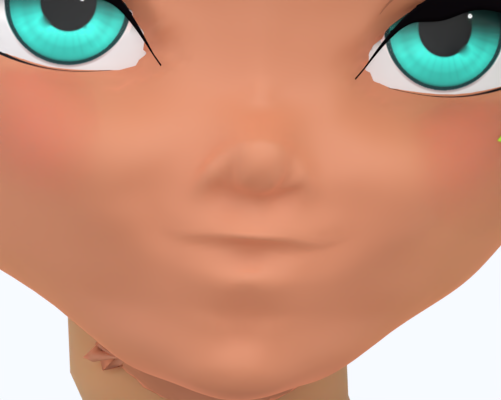
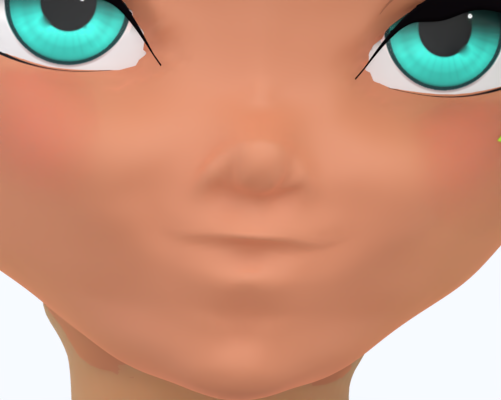
WIP: params J12 (jaw line on the mandible, dive by shrinkwrap); drop unused cove/floor_fillet/neck_skin

diff --git a/tools/inkwave-modeler/scripts/inkwave_face_volume.py b/tools/inkwave-modeler/scripts/inkwave_face_volume.py
@@ -1147,9 +1147,8 @@ def keep_material(mat):
 
 
 def restore_materials():
-    for name in (EAR_MATERIAL, NECK_MATERIAL):
-        if bpy.data.materials.get(name) is not None and not bpy.data.materials[name].users:
-            bpy.data.materials.remove(bpy.data.materials[name])
+    if bpy.data.materials.get(EAR_MATERIAL) is not None and not bpy.data.materials[EAR_MATERIAL].users:
+        bpy.data.materials.remove(bpy.data.materials[EAR_MATERIAL])
     for name in DECAL_MATERIALS.values():
         mat = bpy.data.materials.get(name)
         if mat is None or SUFFIX not in mat:
@@ -1616,67 +1615,6 @@ def set_skin(cfg):
     if paint is not None:                  # its default value is what the reference paint reads as the skin tone
         next(n for n in paint.node_tree.nodes if n.type == 'BSDF_PRINCIPLED').inputs['Base Color'].default_value = \
             list(cfg['base_colour']) + [1.0]
-
-
-NECK_MATERIAL = 'skin_neck'
-
-
-def neck_skin(face, cfg):
-    """The face lies on the neck under the jaw and ends there; the face (its paint texture, face shading) and the
-    neck (the body skin) shade differently, so the border read as a line from under the ear to the neck front (the
-    reference has none).  The neck above the collar (BODY_torso, head-frame y > y_min, |x| < x_max) gets a copy of
-    the body skin with the face skin's values: the colour of the face texture where the face lies on the neck
-    (median, cfg['sample'] box) and the face material's surface values for that texture alpha.  The border to the
-    body skin is inside the collar."""
-    me = face.data
-    loc = M.to_local(er.world(face)) * 1000
-    fm = bpy.data.materials[er.FACE_PAINT_MATERIAL]
-    tex = next(n for n in fm.node_tree.nodes if n.type == 'TEX_IMAGE' and n.outputs['Color'].links)
-    img = tex.image
-    W, H = img.size
-    px = np.empty(W * H * 4, np.float32)
-    img.pixels.foreach_get(px)
-    px = px.reshape(H, W, 4)
-    uv = np.empty(len(me.loops) * 2)
-    me.uv_layers.active.data.foreach_get('uv', uv)
-    uv = uv.reshape(-1, 2)
-    lv = np.empty(len(me.loops), int)
-    me.loops.foreach_get('vertex_index', lv)
-    (y0, y1), (z0, z1) = cfg['sample']['y'], cfg['sample']['z']
-    sel = (loc[lv, 1] > y0) & (loc[lv, 1] < y1) & (loc[lv, 2] > z0) & (loc[lv, 2] < z1)
-    c = px[(np.clip(uv[sel, 1], 0, 1) * (H - 1)).astype(int), (np.clip(uv[sel, 0], 0, 1) * (W - 1)).astype(int)]
-    rgb, alpha = np.median(c[:, :3], 0), float(np.median(c[:, 3]))
-    if img.colorspace_settings.name == 'sRGB' and not img.is_float:
-        rgb = np.where(rgb <= 0.04045, rgb / 12.92, ((rgb + 0.055) / 1.055) ** 2.4)
-    inv = 1 - alpha
-    mat = bpy.data.materials[cfg.get('from', SKIN_MATERIAL)].copy()
-    mat.name = NECK_MATERIAL
-    b = next(n for n in mat.node_tree.nodes if n.type == 'BSDF_PRINCIPLED')
-    fb = next(n for n in fm.node_tree.nodes if n.type == 'BSDF_PRINCIPLED')
-    b.inputs['Base Color'].default_value = list(rgb) + [1.0]
-    for k in ('Sheen Weight', 'Subsurface Weight', 'Coat Weight', 'Specular IOR Level', 'Roughness'):
-        mr = fm.node_tree.nodes.get('ink_' + k)
-        if mr is not None:
-            lo, hi = mr.inputs['To Min'].default_value, mr.inputs['To Max'].default_value
-            b.inputs[k].default_value = lo + (hi - lo) * inv
-        else:
-            b.inputs[k].default_value = fb.inputs[k].default_value
-    for k in ('Subsurface Radius', 'Subsurface Scale', 'Sheen Tint', 'Sheen Roughness', 'Coat Roughness'):
-        b.inputs[k].default_value = fb.inputs[k].default_value
-    neck = bpy.data.objects[NECK]
-    nme = neck.data
-    nl = M.to_local(er.world(neck)) * 1000
-    nme.materials.append(mat)
-    slot = len(nme.materials) - 1
-    vy = nl[:, 1]
-    vx = np.abs(nl[:, 0])
-    count = 0
-    for pl in nme.polygons:
-        vs = list(pl.vertices)
-        if vy[vs].min() > cfg['y_min'] and vx[vs].max() < cfg['x_max']:
-            pl.material_index = slot
-            count += 1
-    print('FACE_VOLUME neck skin: polygons', count, 'colour (linear)', np.round(rgb, 4), 'texture alpha', round(alpha, 3))
 
 
 def restore_skin():
@@ -2253,34 +2191,6 @@ def main():
                     amounts = amounts + ln['mm'] * wl
                 if step.get('flare'):
                     amounts = amounts + fl['mm'] * wf
-                if step.get('cove'):
-                    # a rounded inside corner under the jaw (the reference's jaw runs into the neck in one curve):
-                    # each neck point h mm under the face (ray straight up in the head frame, hitting the face's
-                    # underside from below) goes out along its normal by R - sqrt(R^2 - (R - h)^2), a quarter
-                    # circle of radius R: R at the face, 0 and tangent to the neck at h = R
-                    R = step['cove']['mm']
-                    bvh = BVHTree.FromPolygons([tuple(v) for v in er.world(face)], [tuple(pl.vertices) for pl in face.data.polygons])
-                    up = M.to_world(np.array([[0, 1.0, 0]]))[0] - M.to_world(np.zeros((1, 3)))[0]
-                    up = Vector(up / np.linalg.norm(up))
-                    Wn = er.world(neck)
-                    h = np.full(len(Wn), np.inf)
-                    for i in np.nonzero(wy > 0)[0]:
-                        loc_h, nrm, _, dist = bvh.ray_cast(Vector(Wn[i]), up, 0.05)
-                        if loc_h is not None and nrm.dot(up) < 0:
-                            h[i] = dist * 1000
-                    t = np.clip(1 - h / R, 0, 1)
-                    cove = R - np.sqrt(np.maximum(R * R - (R * t) ** 2, 0))
-                    cove[t <= 0] = 0.0
-                    cove *= step['cove'].get('scale', 1.0)
-                    if step['cove'].get('weight_smooth'):
-                        # the height under the face jumps from point to point (the rays meet the face's own
-                        # bumps): Blender's vertex-group smoothing evens the amounts out before the move
-                        peak = float(cove.max())
-                        if peak > 0:
-                            cw = smooth_weights(neck, cove / peak, step['cove']['weight_smooth'])
-                            cove = cw * peak * (wy > 0)
-                    amounts = amounts + cove * (wy > 0)
-                    print('FACE_VOLUME', step['name'], 'cove vertices', int((cove > 0.01).sum()), 'max mm', round(float(cove.max()), 2))
                 for sign in (1, -1):
                     part = np.maximum(sign * amounts, 0)
                     if part.max() > 0:
@@ -2298,39 +2208,6 @@ def main():
                         me.vertices[j].co = co
                 me.update()
                 print('FACE_VOLUME', step['name'], 'neck vertices', int((wn > 0.001).sum()), 'mm', step.get('mm_side', step.get('mm')), 'lean', step.get('lean'))
-                continue
-            elif step['kind'] == 'floor_fillet':
-                # the floor under the jaw met the neck at a right angle (front and side views: a corner where the
-                # reference runs in one curve).  Floor points d mm from the neck go down by R - sqrt(R^2 - (R-d)^2)
-                # (a quarter circle of radius R: R at the neck, 0 and level with the floor at d = R), so the floor
-                # bends down into the neck.  The amount depends on the distance to the neck only, so a point never
-                # goes through it.  Blender's Warp moves them; the weights are evened out by vertex-group smoothing
-                R = step['mm']
-                neck = bpy.data.objects[NECK]
-                Wn = er.world(neck)
-                bvh = BVHTree.FromPolygons([tuple(v) for v in Wn], [tuple(pl.vertices) for pl in neck.data.polygons])
-                Wf = er.world(face)
-                d = np.full(len(Wf), np.inf)
-                cand = np.nonzero((loc[:, 1] < step['y_max']) & (NORMALS[:, 1] < step['normal_y']) & (loc[:, 2] > step['z'][0]))[0]
-                for i in cand:
-                    q, nrm, _, dist = bvh.find_nearest(Vector(Wf[i]))
-                    if q is not None:
-                        d[i] = dist * 1000 if nrm.dot(Vector(Wf[i]) - q) > 0 else 0.0
-                t = np.clip(1 - d / R, 0, 1)
-                drop = R - np.sqrt(np.maximum(R * R - (R * t) ** 2, 0))
-                drop[t <= 0] = 0.0
-                z0, z1 = step['z']
-                tz = np.clip((loc[:, 2] - z0) / (z1 - z0), 0, 1)
-                drop *= tz * tz * (3 - 2 * tz)
-                peak = float(drop.max())
-                if peak > 0:
-                    w = drop / peak
-                    if step.get('weight_smooth'):
-                        w = smooth_weights(face, w, step['weight_smooth'])
-                        w = np.clip(w / max(w.max(), 1e-9), 0, 1)
-                    warp(face, w, [0, -peak, 0], loc)
-                gap = join_seam(face, pairs)
-                print('FACE_VOLUME', step['name'], 'vertices', int((drop > 0.01).sum()), 'max mm', round(peak, 2), 'seam gap closed mm', round(float(gap), 3))
                 continue
             elif step['kind'] == 'neck_normals':
                 # the face laid on the neck (jaw_tuck) ends on it: its own shading differs from the neck's, so the
@@ -2358,8 +2235,15 @@ def main():
                     # normals (Blender's Displace), so it goes in at a small angle along a curve parallel to the
                     # jaw line, and the neck shows below without a step
                     wd = jaw_tuck_weights(loc, dict(step, z_front=step['dive'].get('z_front', step['z_front'])), step['dive'])
-                    er.apply_weighted_modifier(face, wd, 'DISPLACE', direction='NORMAL',
-                                               strength=-step['dive']['mm'] / 1000, mid_level=0.0)
+                    if step['dive'].get('method') == 'shrinkwrap':
+                        # along the neck's normal (Shrinkwrap Above Surface, negative offset): a crumpled face
+                        # triangle with a wrong normal would otherwise be pushed out of the neck (a flake)
+                        er.apply_weighted_modifier(face, wd, 'SHRINKWRAP', target=bpy.data.objects[NECK],
+                                                   wrap_method='NEAREST_SURFACEPOINT', wrap_mode='ABOVE_SURFACE',
+                                                   offset=-step['dive']['mm'] / 1000)
+                    else:
+                        er.apply_weighted_modifier(face, wd, 'DISPLACE', direction='NORMAL',
+                                                   strength=-step['dive']['mm'] / 1000, mid_level=0.0)
                     print('FACE_VOLUME', step['name'], 'dive vertices', int((wd > 0.001).sum()), 'mm', step['dive']['mm'])
                 gap = join_seam(face, pairs)
                 move = np.linalg.norm(er.world(face) - M.to_world(loc / 1000), axis=1) * 1000
@@ -2445,8 +2329,6 @@ def main():
             rebuild_ears(p['ear_rebuild'])
         if p.get('cheek_triangles'):
             place_cheek_triangles(face, p['cheek_triangles'])
-        if p.get('neck_skin') and not args.no_paint:
-            neck_skin(face, p['neck_skin'])
         seam_normals(face, pairs)
     if args.save:
         bpy.ops.wm.save_as_mainfile(filepath=args.save, compress=True)

diff --git a/tools/inkwave-modeler/docs/face-volume/wip/HANDOFF.md b/tools/inkwave-modeler/docs/face-volume/wip/HANDOFF.md
@@ -129,3 +129,5 @@
   - 見える境目は jaw_tuck の線ではなく、線から約 15 mm 下・後ろ（depth 20 の重みのため）。
   - 試し: J1（参照のふちを 10 mm 内へずらした線、depth 20）、J2（6 mm、depth 12）、J3（ずらさない、depth 20）。
 - J3（線を参照のふちに置く、上は y -58 の横線、z_ramus [10,30]）はきれい。z_ramus [-10,0]（J4〜J6）は首にかけら。J8 = 線を 5 mm 内へ（上の横線は -58 のまま）、z_ramus [10,30]: 顎の後ろのたてのふちと角が参照の線（`jawborder.py`）にほぼ合う。首の下に小さなかけら → dive の試し J9（len 14）、J10（mm 12）、J11（from 14）。p_J8.json を wip に置いた。
+- J9〜J11: かけら 1 つが残る（首の後ろ寄り、顔の面のくしゃっとした三角が法線の向きで外へ出る）。`jaw_tuck.dive.method` "shrinkwrap"（Shrinkwrap Above Surface、offset -mm = 首の法線で沈める）で消えた（J12 = J9 + これ）。J12 を params に入れた。使わないコード（cove、floor_fillet、neck_skin）は消した。正式なビルド Q2。
+- 速さ（ユーザー: 1 回 15 分は遅い）: 色つき Cycles が 1 方向 6〜7 分。形は粘土（25 秒）で見る。`jtc.sh`（LOOKS=clay で粘土だけ）。提案中: 顎だけの切りぬき描画、顎の手前までの途中保存から始める。
